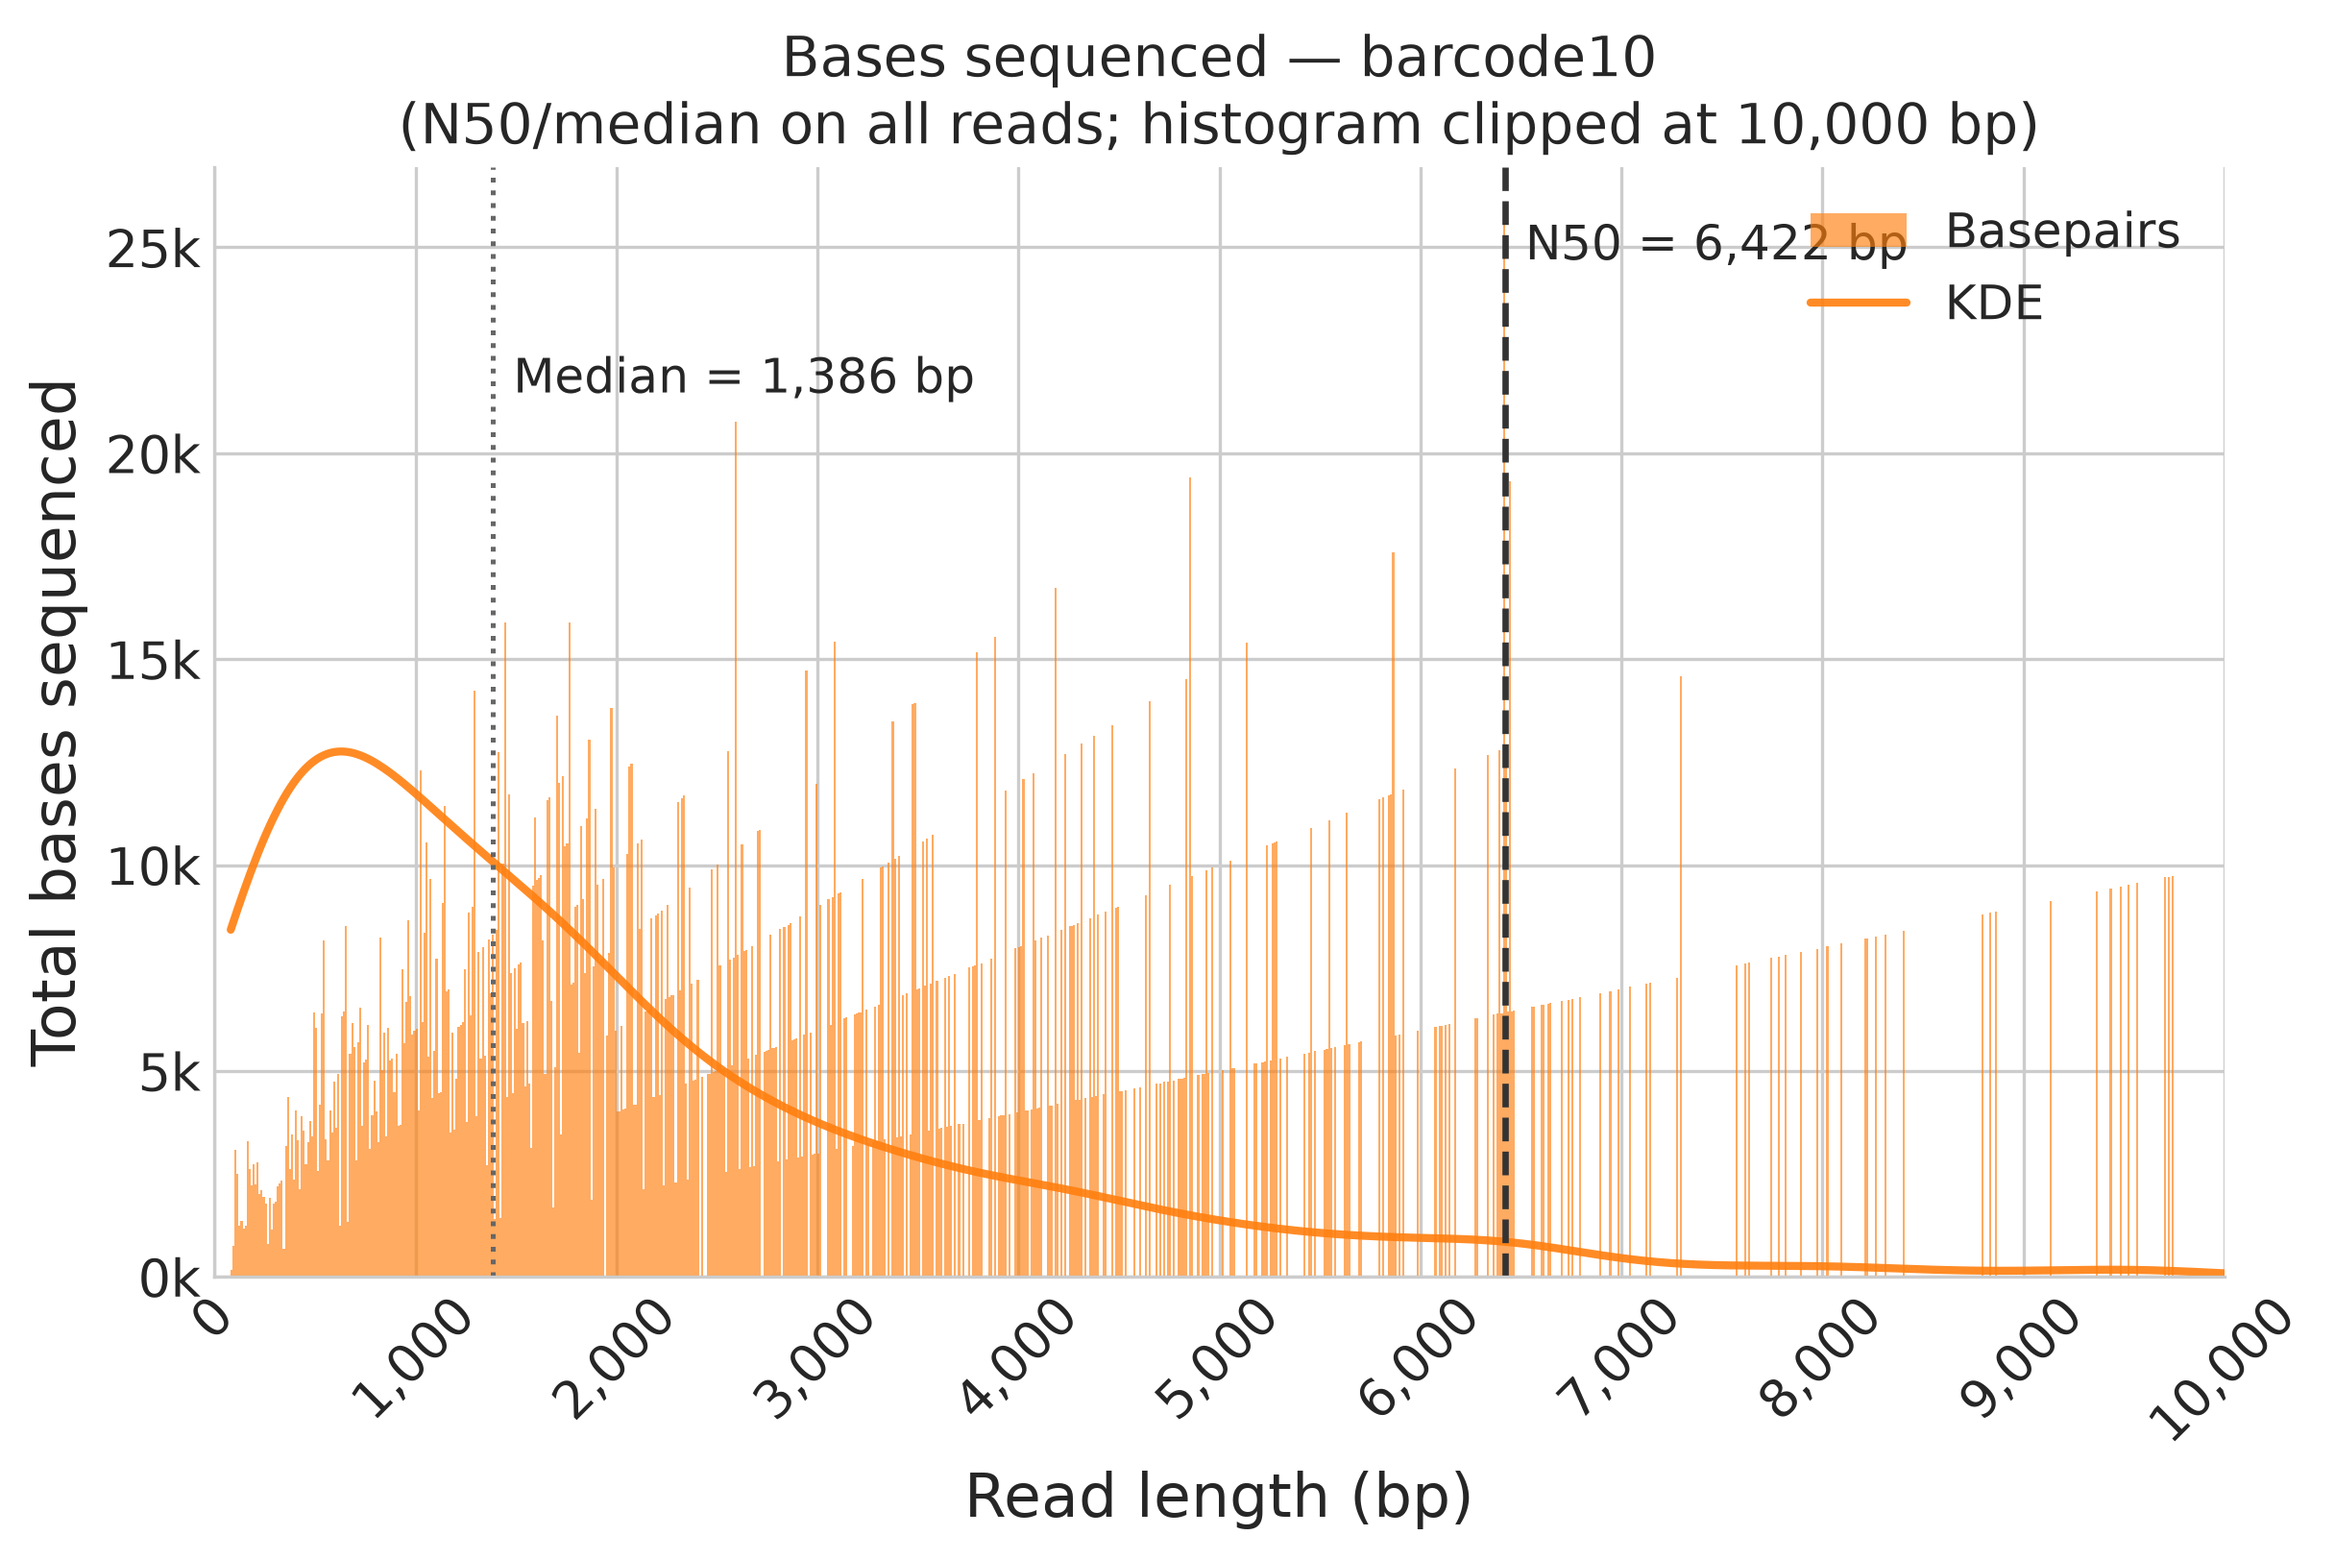
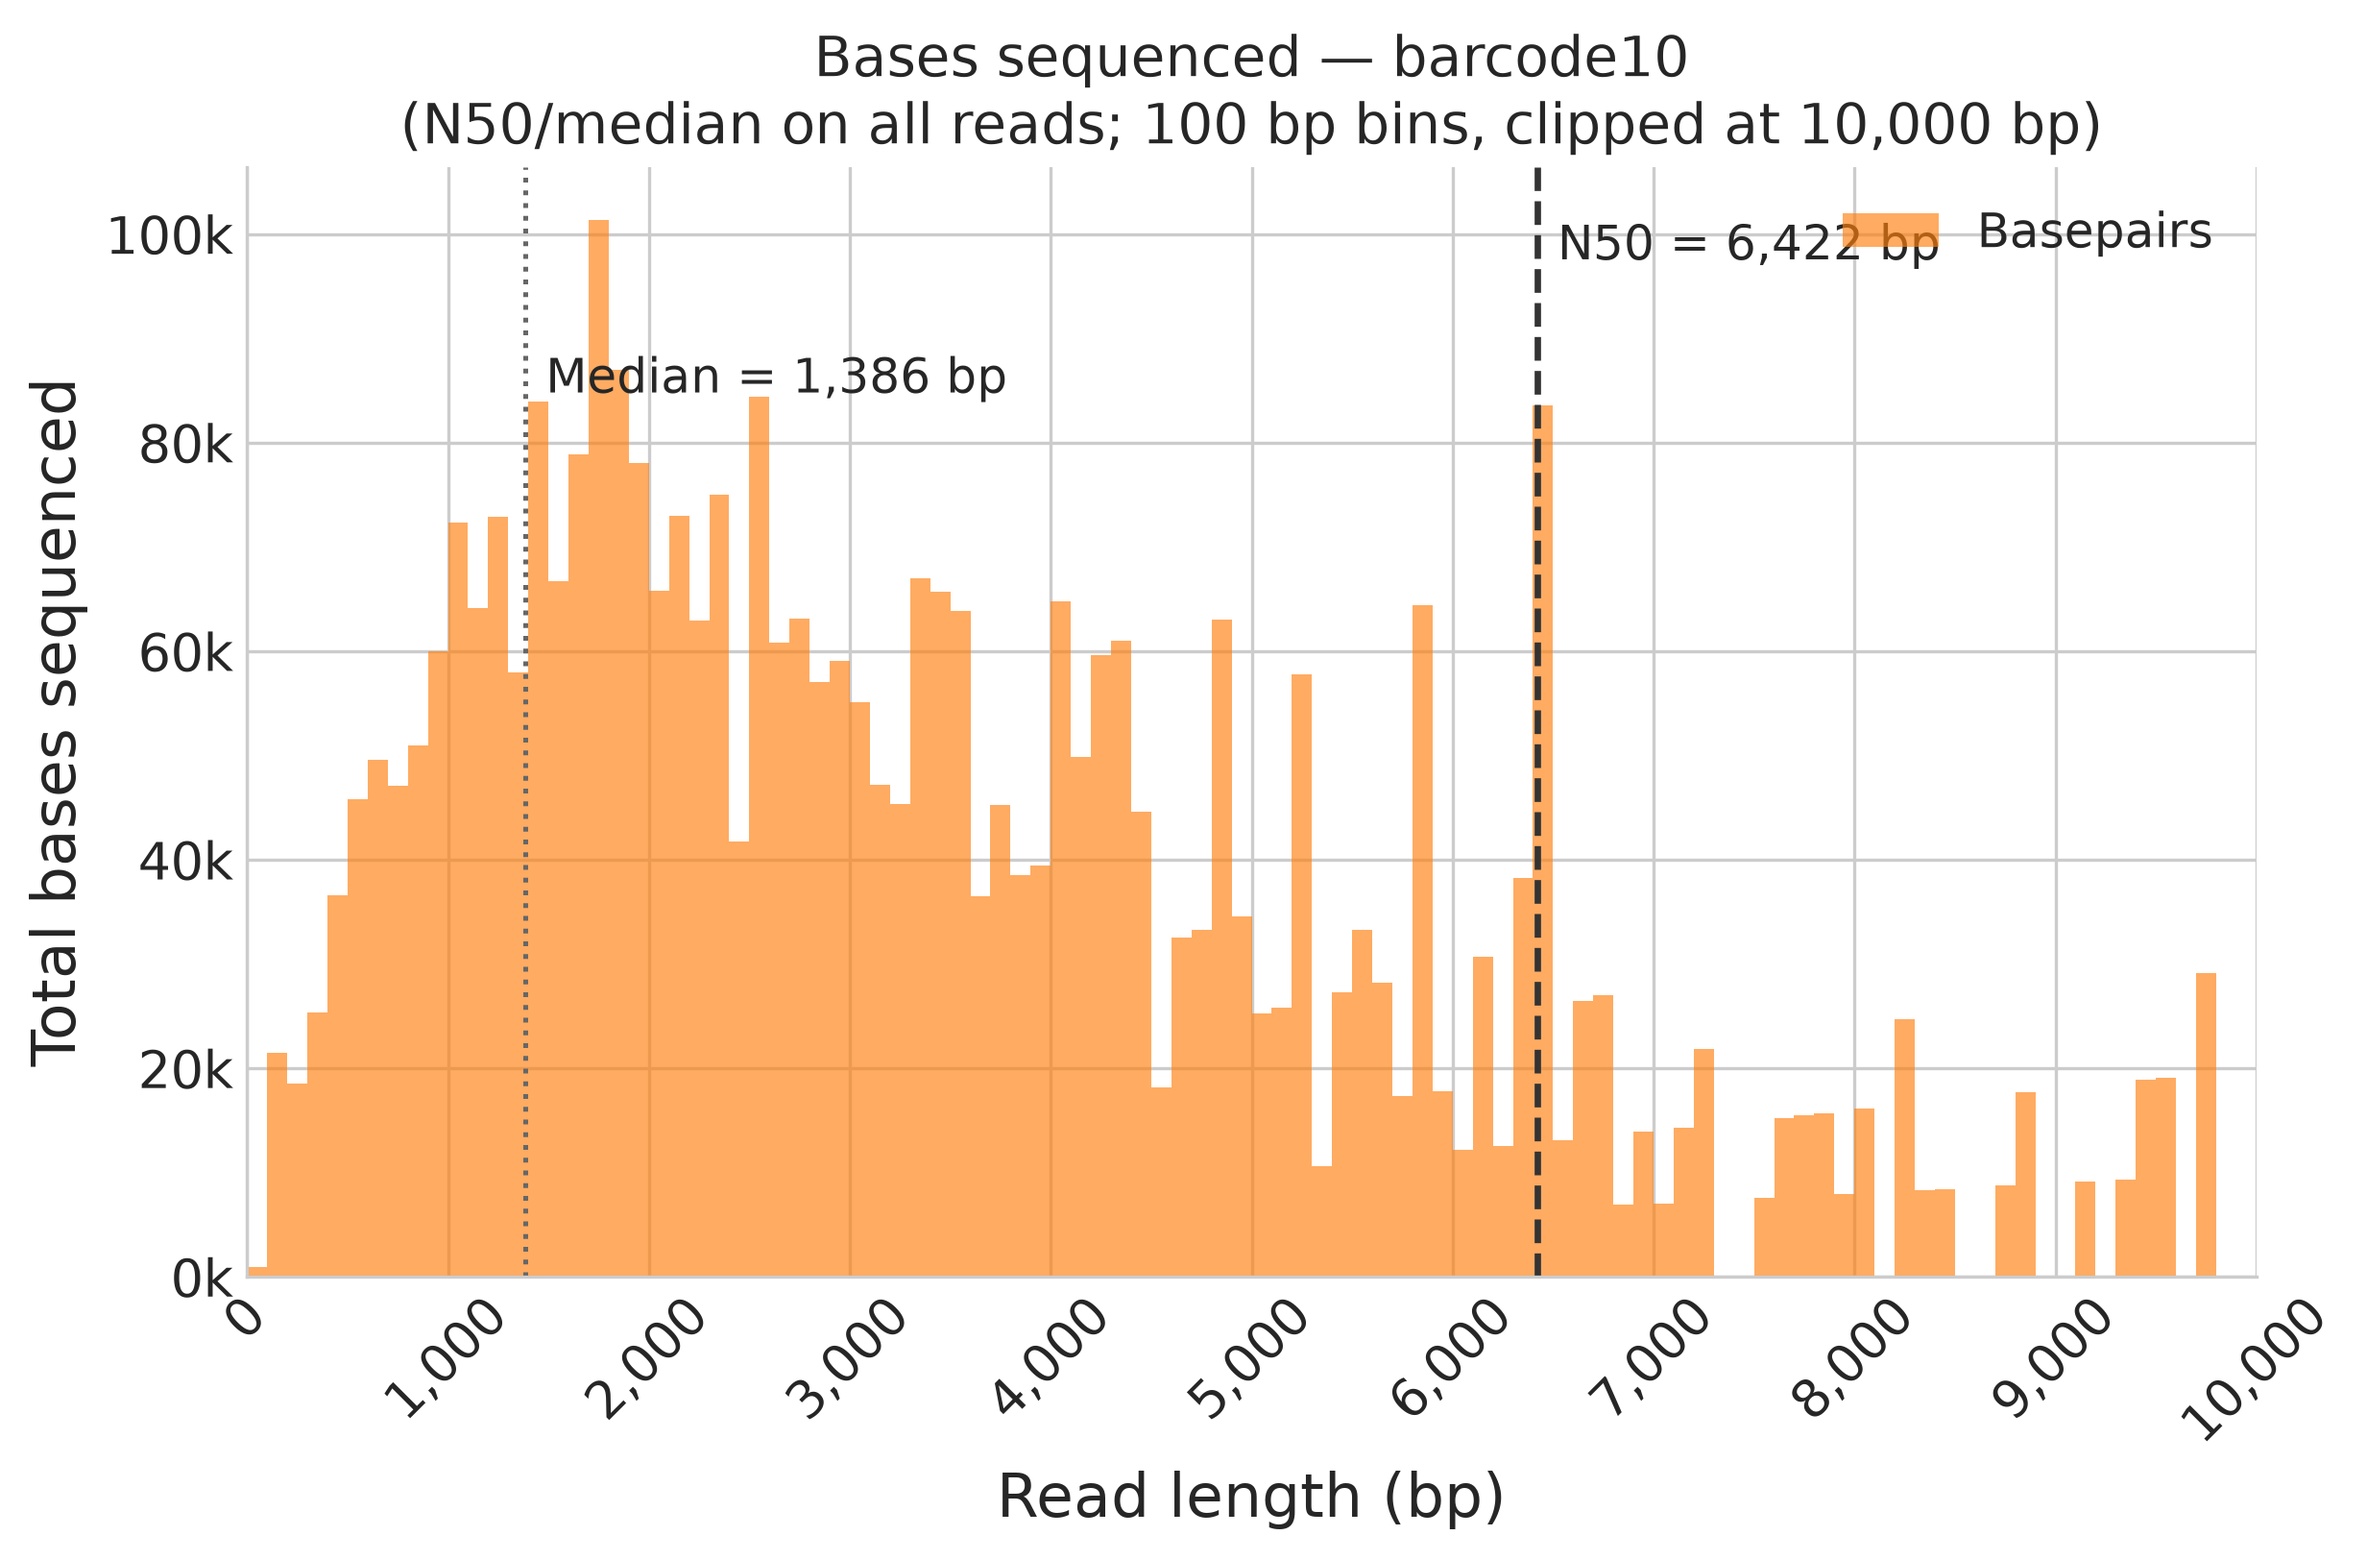
Read QC: drop KDE overlay, add --bin-width (auto 10/100 bp)
The KDE was fitted to read counts but scaled as bases. Sparse 10 bp bins on
small samples put base-weighted bars on lines y = k*length.

diff --git a/src/fibernhat/plot/qc.py b/src/fibernhat/plot/qc.py
@@ -41,22 +41,28 @@ def _qc_style(fn):
     return wrapper
 
 
+AUTO_BIN_MIN_READS = 20000
+
+
+def auto_bin_width(n_reads: int) -> int:
+    """10 bp bins (the original) for full runs; 100 bp when there are fewer
+    than 20k reads. With sparse 10 bp bins a base-weighted histogram shows
+    bars on the lines y = k * length (k = reads in the bin)."""
+    return 10 if n_reads >= AUTO_BIN_MIN_READS else 100
+
+
 @_qc_style
 def plot_histogram(lengths, out_prefix, label, color, clip=10000, ymax=None,
-                   log_x=False, formats=("png", "svg")):
-    from scipy.stats import gaussian_kde
+                   log_x=False, formats=("png", "svg"), bin_width="auto"):
     plt = _plt()
     L = np.asarray(lengths, float)
     L = L[L > 0]
     N50, med = n50(L), float(np.median(L)) if L.size else 0
     arr = L[L < clip]
     fig, ax = plt.subplots(figsize=(9, 5))
-    bins = np.arange(0, clip + 10, 10)
+    bw = auto_bin_width(L.size) if bin_width in (None, "auto") else int(bin_width)
+    bins = np.arange(0, clip + bw, bw)
     ax.hist(arr, bins=bins, weights=arr, color=color, alpha=0.65, edgecolor="none", label="Basepairs")
-    if arr.size > 2:
-        xs = np.linspace(arr.min(), clip, 600)
-        kde = gaussian_kde(arr, "scott")
-        ax.plot(xs, kde(xs) * arr.sum() * 10, color=color, lw=2, alpha=0.9, label="KDE")
     top = ymax or ax.get_ylim()[1]
     ax.axvline(N50, color="#333333", lw=1.6, ls="--")
     ax.axvline(med, color="#666666", lw=1.2, ls=":")
@@ -75,7 +81,7 @@ def plot_histogram(lengths, out_prefix, label, color, clip=10000, ymax=None,
         lambda x, _: f"{x / 1e6:.1f}M" if x >= 1e6 else f"{x / 1e3:.0f}k"))
     ax.set_xlabel("Read length (bp)", fontsize=FONT_LABEL)
     ax.set_ylabel("Total bases sequenced", fontsize=FONT_LABEL)
-    ax.set_title(f"Bases sequenced — {label}\n(N50/median on all reads; histogram clipped at {clip:,} bp)",
+    ax.set_title(f"Bases sequenced — {label}\n(N50/median on all reads; {bw} bp bins, clipped at {clip:,} bp)",
                  fontsize=FONT_TITLE - 4)
     ax.tick_params(labelsize=FONT_TICK)
     ax.legend(loc="upper right", frameon=False, fontsize=FONT_LEGEND)

diff --git a/src/fibernhat/cli.py b/src/fibernhat/cli.py
@@ -120,7 +120,8 @@ def cmd_qc(a, cfg):
     for i, (lab, g) in enumerate(df.groupby("label", sort=False)):
         g2 = g if not a.pass_only else g[g.fail_reason == ""]
         PQ.plot_histogram(g2.read_len.values, os.path.join(out, f"{lab}_hist"), lab,
-                          PQ.style.label_color(i), clip=a.clip, ymax=a.hist_ymax, log_x=a.log_x, formats=fm)
+                          PQ.style.label_color(i), clip=a.clip, ymax=a.hist_ymax, log_x=a.log_x, formats=fm,
+                          bin_width=a.bin_width)
         groups.append((lab, g2.read_len.values, g2.mean_q.values))
     PQ.plot_summary(groups, out, gsize, clip=a.clip, formats=fm)
     PQ.plot_cascade(casc, out, formats=fm)
@@ -295,6 +296,9 @@ def main(argv=None):
     p.add_argument("-o", "--outdir")
     p.add_argument("--clip", type=int, default=10000, help="x-limit for histograms / violins (stats unclipped)")
     p.add_argument("--hist-ymax", type=float)
+    p.add_argument("--bin-width", default="auto",
+                   help="histogram bin width in bp, or 'auto' (default): 10 bp with >= 20k reads per sample, "
+                        "else 100 bp")
     p.add_argument("--log-x", action="store_true")
     p.add_argument("--genome-size", type=int, help="for coverage; default nuclear sacCer3 size")
     p.add_argument("--pass-only", action="store_true", help="plot only reads passing the filters")

diff --git a/.claude/skills/read-qc/SKILL.md b/.claude/skills/read-qc/SKILL.md
@@ -19,7 +19,7 @@ description: Plot read length and read quality QC (N50, histograms, violins, fil
 | `summary.tsv` | per sample: n_reads, total_bases, **N50**, median/mean length, median/mean Q, frac ≥ Q10, frac mapped, frac with MM tag, coverage, reads and coverage passing the filters |
 | `read_stats.tsv.gz` | one row per primary read: length, mean Q, MAPQ, ref span, `fail_reason` |
 | `filter_cascade.tsv/.png` | reads removed at each filter step (unmapped, no MM, chrM/lambda, rDNA, MAPQ<20, span<500, qs<10) |
-| `<label>_hist.png/.svg` | length histogram weighted by bases (10 bp bins, clipped at `--clip`), KDE, N50 and median lines |
+| `<label>_hist.png/.svg` | length histogram weighted by bases (bin width from `--bin-width`, clipped at `--clip`), N50 and median lines |
 | `summary_read_length.*`, `summary_quality.*` | violin+box per sample, with stats in the tick labels and a Q10 line |
 
 ## Notes and pitfalls
@@ -28,6 +28,8 @@ description: Plot read length and read quality QC (N50, histograms, violins, fil
 - Coverage uses the nuclear sacCer3 size (12.07 Mb), or `--genome-size`.
 - Sample labels come from `--label-by auto`: the `BC` tag (e.g. `barcode09`), otherwise `barcodeNN` in the file name, otherwise the file stem.
 - Secondary and supplementary records are skipped, so each read counts once.
+- **Bin width.** `--bin-width auto` (default) uses the original 10 bp bins when a sample has ≥ 20k reads and 100 bp bins below that. The histogram is weighted by bases, so a bin at length x holding k reads is k·x tall. With few reads most 10 bp bins hold 1–4 reads and the bars line up on straight lines y = x, 2x, 3x… through the origin. That is a sampling artefact, not a data problem. Set `--bin-width 10` to force the original bins.
+- No KDE curve. The old script's KDE was fitted to read counts but scaled as bases, so it didn't match the bars; it was removed here and in the original script.
 
 ## Provenance
 Port of `process_nanopore_sequencing/Nov_20_25/no_trim/plot_read_data.py` (same styling). The input was the `samtools view | awk` `*_read_len_qual` files from `DM1746/script_sup_model.sh`. The filter cascade follows `bg_investigation/nov03/analyze_nov03.py`.

diff --git a/CHANGELOG.md b/CHANGELOG.md
@@ -8,6 +8,7 @@
   - modkit 0.6.1 `pileup` leaves out a few calls that `modkit extract` reports (59 of 1.4M positions on the test data were 1 lower), so it is not used.
 - Fixes compared with the old scripts:
   - Read QC: N50 is computed on unclipped reads.
+  - Read QC: KDE overlay removed (it was fitted to read counts but scaled as bases). New `--bin-width` (auto: 10 bp with ≥ 20k reads, else 100 bp).
   - Read QC: secondary and supplementary records are no longer counted.
   - Coverage uses the genome size from the chrom sizes file.
 - Plot layout matches the lab figure scripts:
